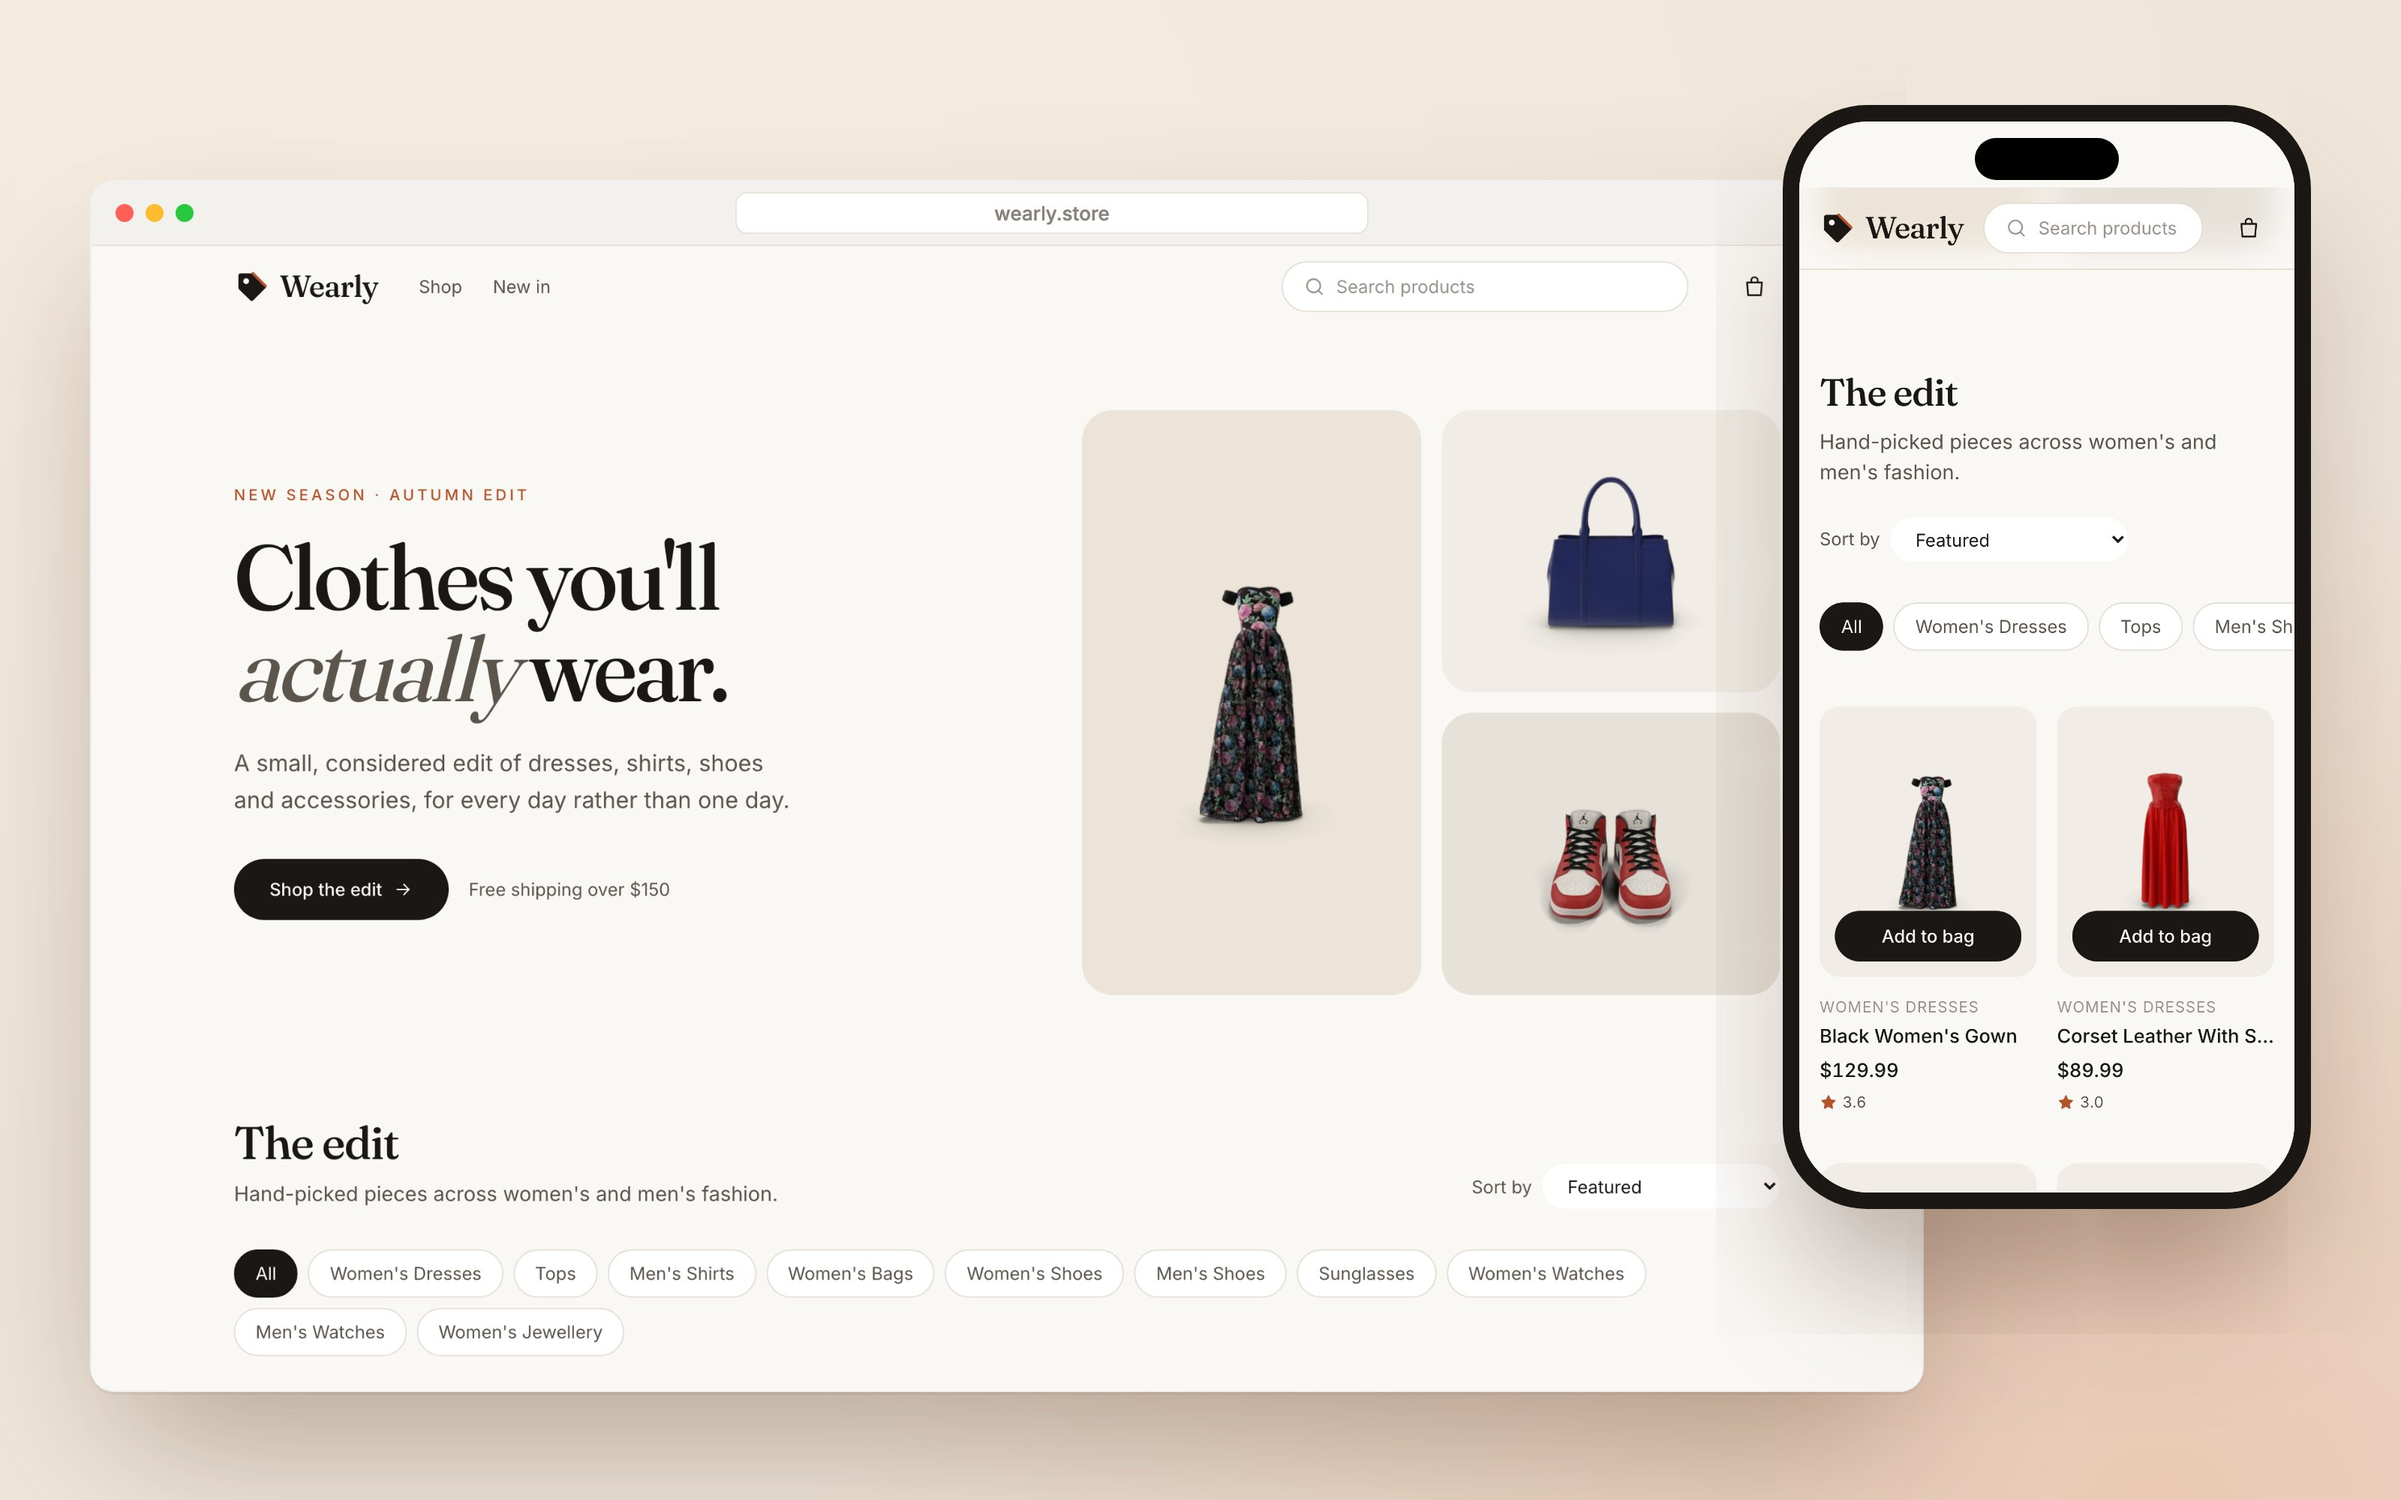
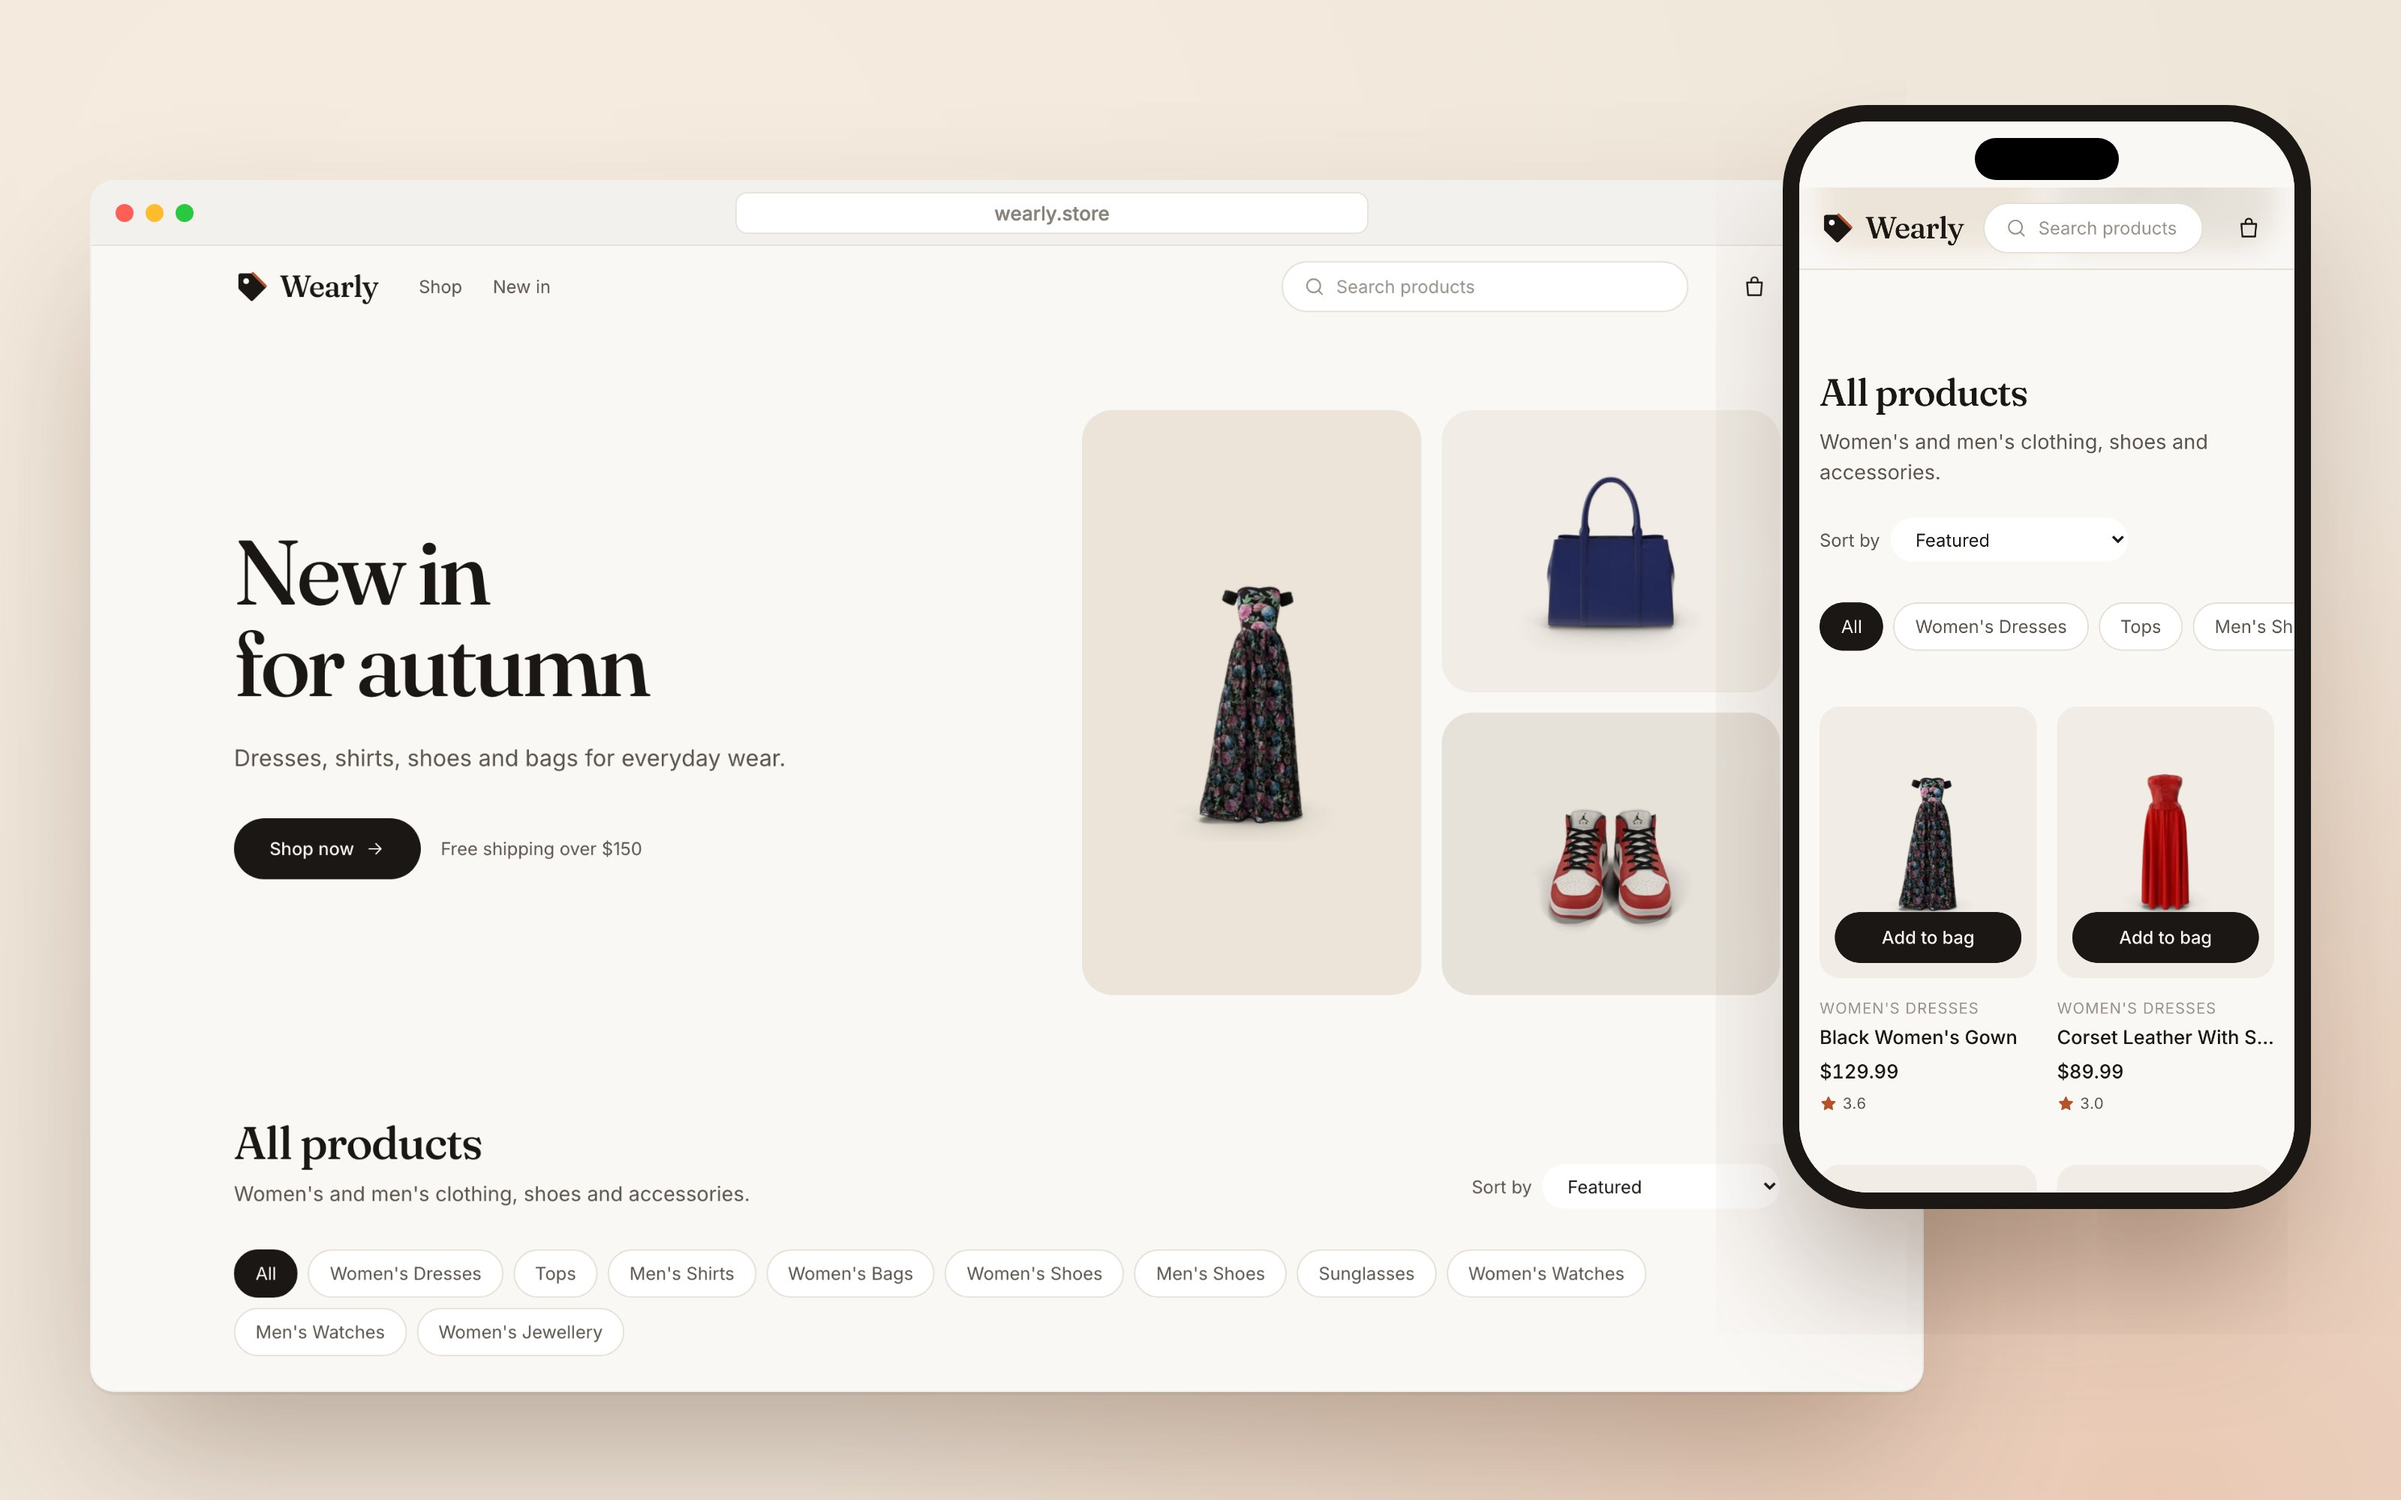
Simplify store copy and hero

diff --git a/src/components/Hero.js b/src/components/Hero.js
@@ -11,21 +11,20 @@ export default function Hero() {
   return (
     <section className="mx-auto grid max-w-7xl items-center gap-10 px-4 pb-8 pt-10 sm:px-6 md:grid-cols-[1.1fr_1fr] md:pt-16 lg:gap-16 lg:px-8">
       <div>
-        <p className="text-xs font-medium uppercase tracking-[0.2em] text-accent">New season · Autumn edit</p>
-        <h1 className="mt-5 font-display text-5xl font-medium leading-[1.02] tracking-tightest sm:text-6xl lg:text-7xl">
-          Clothes you'll
+        <h1 className="font-display text-5xl font-medium leading-[1.02] tracking-tightest sm:text-6xl lg:text-7xl">
+          New in
           <br />
-          <em className="font-normal italic text-ink-soft">actually</em> wear.
+          for autumn
         </h1>
         <p className="mt-6 max-w-md text-lg leading-relaxed text-ink-soft">
-          A small, considered edit of dresses, shirts, shoes and accessories, for every day rather than one day.
+          Dresses, shirts, shoes and bags for everyday wear.
         </p>
         <div className="mt-8 flex flex-wrap items-center gap-4">
           <a
             href="#catalog"
             className="group inline-flex items-center gap-2 rounded-full bg-ink px-7 py-3.5 text-sm font-medium text-paper transition-colors hover:bg-accent"
           >
-            Shop the edit
+            Shop now
             <ArrowIcon width={16} height={16} className="transition-transform group-hover:translate-x-0.5" />
           </a>
           <p className="text-sm text-ink-soft">Free shipping over $150</p>

diff --git a/src/components/CartDrawer.js b/src/components/CartDrawer.js
@@ -63,7 +63,7 @@ export default function CartDrawer() {
                     Add <span className="font-medium text-ink">{formatPrice(remaining)}</span> for free shipping
                   </>
                 ) : (
-                  "You've unlocked free shipping"
+                  "This order ships free"
                 )}
               </p>
               <div className="mt-2 h-1 overflow-hidden rounded-full bg-paper-dim">

diff --git a/public/index.html b/public/index.html
@@ -24,7 +24,7 @@
       work correctly both with client-side routing and a non-root public URL.
       Learn how to configure a non-root public URL by running `npm run build`.
     -->
-    <title>Wearly · Everyday fashion</title>
+    <title>Wearly</title>
   </head>
   <body>
     <noscript>You need to enable JavaScript to run this app.</noscript>

diff --git a/src/pages/Home.js b/src/pages/Home.js
@@ -5,7 +5,7 @@ export default function Home() {
   return (
     <>
       <Hero />
-      <Catalog title="The edit" subtitle="Hand-picked pieces across women's and men's fashion." />
+      <Catalog title="All products" subtitle="Women's and men's clothing, shoes and accessories." />
     </>
   );
 }

diff --git a/src/brand.js b/src/brand.js
@@ -1,4 +1,4 @@
 export const BRAND = {
   name: "Wearly",
-  tagline: "Everyday fashion, thoughtfully picked.",
+  tagline: "Everyday clothes at fair prices.",
 };

diff --git a/README.md b/README.md
@@ -1,17 +1,17 @@
 # Wearly
 
-A modern fashion storefront built with **React, Redux Toolkit and Tailwind CSS**. Browse a curated catalog, filter and sort it, search for products and manage a shopping bag. Product data comes from the free [DummyJSON](https://dummyjson.com) API.
+A fashion storefront built with React, Redux Toolkit and Tailwind CSS. You can browse products, filter and sort them, search, and add items to a shopping bag. Product data comes from the free [DummyJSON](https://dummyjson.com) API.
 
 ![Wearly mockup](docs/mockup.jpg)
 
 ## Features
 
-- **Catalog:** category filters, sorting by price or rating, and a responsive product grid
-- **Search:** search products by name from the header
-- **Shopping bag:** slide-out drawer with quantity controls, subtotal and a free-shipping progress bar. Saved across reloads.
-- **Loading and empty states:** skeleton loaders, a retry on error, and "nothing found" states
-- **Accessible UI:** keyboard support (Esc closes the bag), visible focus rings, ARIA labels and reduced-motion support
-- **Responsive:** a 2-column grid and scrollable filter chips on mobile
+- Category filters, sorting by price or rating, and a responsive product grid
+- Search from the header
+- Shopping bag drawer with quantity controls, subtotal and a free shipping progress bar, saved in localStorage
+- Skeleton loaders, error state with retry, and empty search results
+- Keyboard support (Esc closes the bag), focus rings, ARIA labels and reduced motion support
+- 2-column grid and scrollable filter chips on mobile
 
 ## Screenshots
 
@@ -27,9 +27,7 @@ A modern fashion storefront built with **React, Redux Toolkit and Tailwind CSS**
 
 ## Design
 
-- **Type:** Fraunces (serif) for headings, Inter for UI and body text
-- **Color:** warm off-white, ink and one rust accent, defined as Tailwind theme tokens
-- **Logo:** a price-tag mark, drawn as an inline SVG
+Headings use Fraunces and body text uses Inter. Colors are a warm off-white, a near-black ink and one rust accent, set as Tailwind theme tokens. The logo is a price tag drawn as an inline SVG.
 
 ## Tech stack
 
